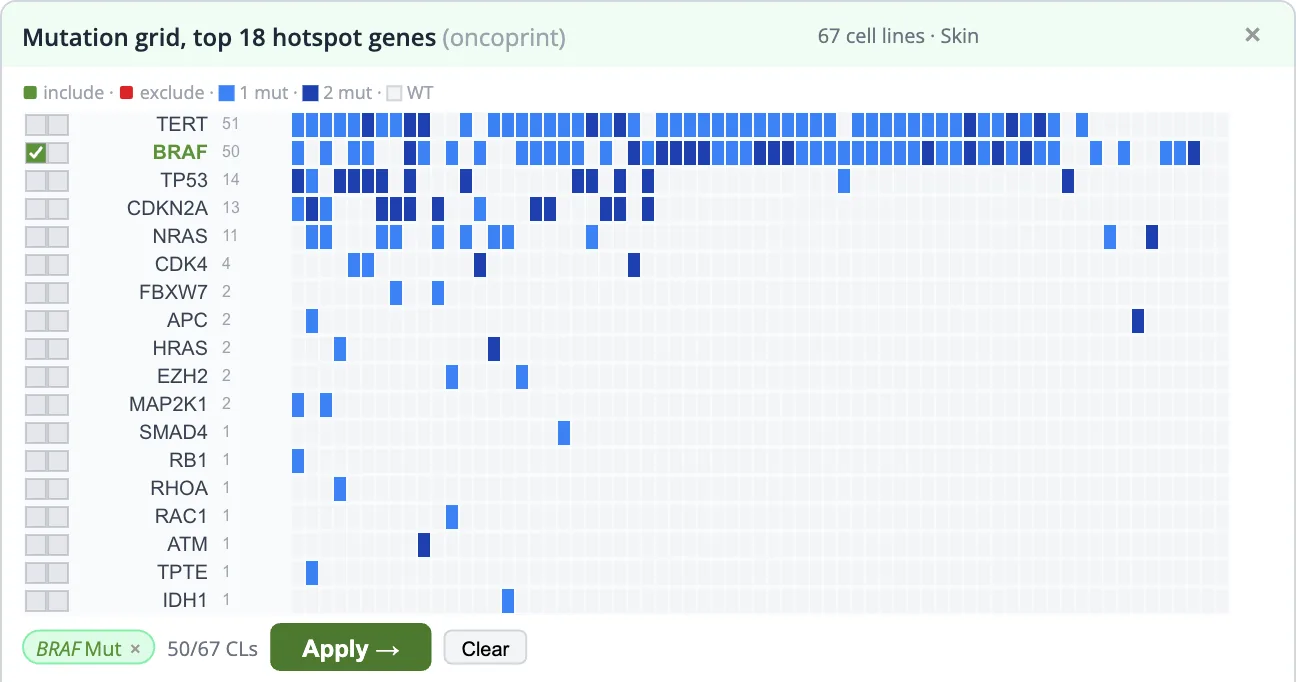
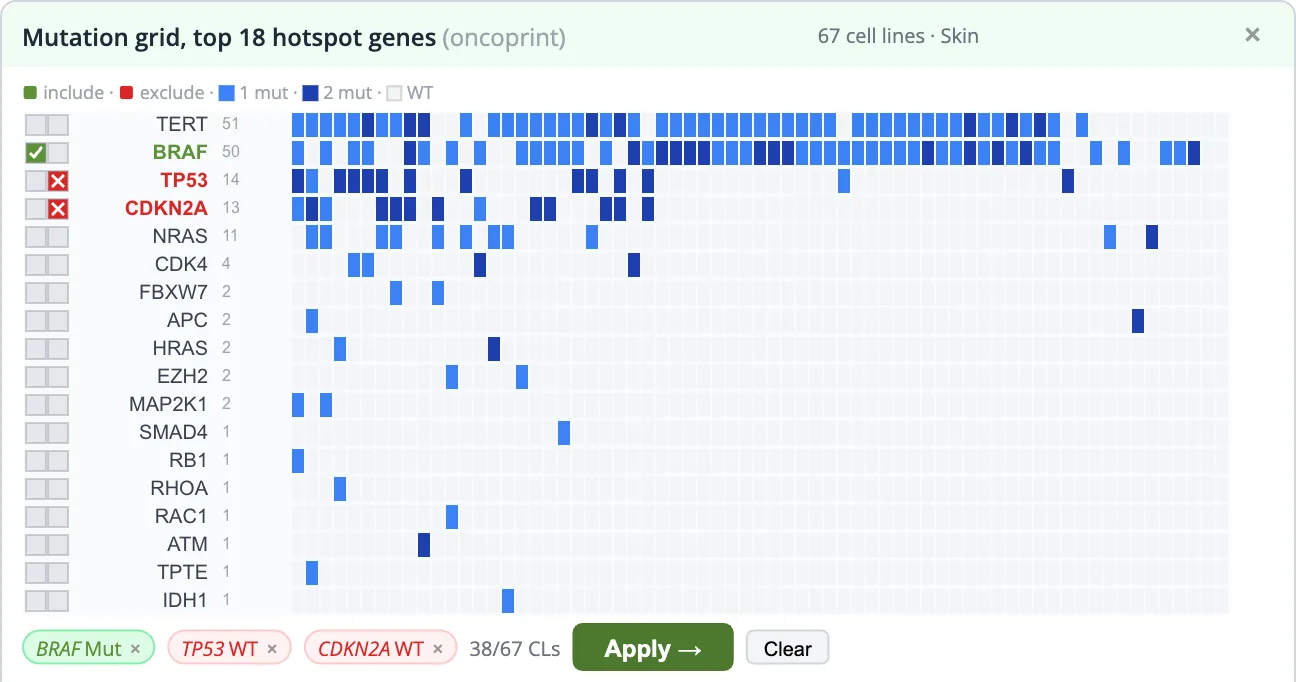
v.91.42: tour: mutation grid example with include and exclude picks (BRAF kept, TP53 and CDKN2A left out), button reproduces them
Claude-Session: https://claude.ai/code/session_01GrRsah6zkLaafT5s7nhzFW

Changed region(s): [[0.1235, 0.893, 0.6481, 0.9853], [0.0926, 0.2463, 0.1543, 0.3387], [0.0309, 0.2463, 0.0617, 0.3387]]

diff --git a/tour.js b/tour.js
@@ -221,7 +221,23 @@
         myc: (a) => a.openGeneBrowser('MYC'),
         tsc1: (a) => a.openGeneBrowser('TSC1'),
         clb: (a) => openMelanoma(a, 'BRAF'),
-        oncoprint: async (a) => { await openMelanoma(a, ''); a.showOncoprint('clb', 'hotspot'); },
+        oncoprint: async (a) => {
+            await openMelanoma(a, '');
+            a.showOncoprint('clb', 'hotspot');
+            await wait(700);
+            // The picks shown in the figure, made through the grid's own click
+            // handler: BRAF mutated kept, TP53 and CDKN2A mutated left out.
+            const d = a._oncoprintData;
+            const cv = [...document.querySelectorAll('#oncoprintPopup canvas')].find(c => c.getBoundingClientRect().width > 0 && c.getBoundingClientRect().width < 260);
+            if (!d || !cv) return;
+            const r = cv.getBoundingClientRect();
+            for (const [gene, state] of [['BRAF', 'mut'], ['TP53', 'wt'], ['CDKN2A', 'wt']]) {
+                const row = d.topGenes.findIndex(g => g.gene === gene);
+                if (row < 0) continue;
+                const x = 2 + (state === 'mut' ? d.boxW / 2 : d.boxW + d.boxGap + d.boxW / 2);
+                cv.dispatchEvent(new MouseEvent('click', { bubbles: true, clientX: r.left + x, clientY: r.top + row * d.cellH + d.cellH / 2 }));
+            }
+        },
         wiki: (a) => a.openCellLineWiki(D.lineId('A375') || 'ACH-000219'),
         stats: () => { const m = document.getElementById('infographicModal'); if (m) m.style.display = 'flex'; },
     };
@@ -355,10 +371,10 @@
                 <h3>Select cell lines by their mutations</h3>
                 ${checks([
                     'The mutation grid (oncoprint) shows the most often mutated genes across the cell lines on screen, one column per cell line.',
-                    'Tick a gene to keep the cell lines that carry its mutation, or to leave them out, then apply. Copy number and fusions have their own grids.',
+                    'Tick green to keep the cell lines that carry a mutation and red to leave them out, combine several genes, then apply. Copy number and fusions have their own grids.',
                 ])}
             </div>
-            ${shot('oncoprint_mel', 'The mutation grid for the 67 melanoma cell lines with BRAF ticked', 'oncoprint', { cap: `The 67 melanoma cell lines, with ${gi('BRAF')} ticked: 50 of them carry a ${gi('BRAF')} hotspot mutation.`, btn: 'Open the mutation grid for melanoma' })}
+            ${shot('oncoprint_mel', 'The mutation grid for the 67 melanoma cell lines, BRAF mutated kept, TP53 and CDKN2A mutated left out', 'oncoprint', { cap: `The 67 melanoma cell lines: ${gi('BRAF')}-mutated kept (green), ${gi('TP53')}- and ${gi('CDKN2A')}-mutated left out (red), which leaves 38.`, btn: 'Open the mutation grid with these picks' })}
         </div>
         <div class="tour-two tour-two-tight tour-two-pca">
             ${shot('volcano_mel', 'Volcano plot comparing the 50 BRAF-mutant melanoma cell lines with every other cell line', 'compare', { cap: `Compare: the 50 selected cell lines against the other 1,158. ${gi('BRAF')}, ${gi('SOX10')} and ${gi('MAPK1')} are their dependencies.`, btn: 'Compare these cell lines with the rest' })}

diff --git a/index.html b/index.html
@@ -3014,6 +3014,10 @@
                 <button onclick="this.closest('#changelogModal').style.display='none'" style="background:none;border:none;font-size:20px;cursor:pointer;">&times;</button>
             </div>
             <div style="font-size:12px; line-height:1.6; color:#374151;">
+                <p><strong>v.91.42 (2026-10-25)</strong></p>
+                <ul>
+                    <li>Tour of the app: the mutation grid example keeps BRAF-mutated melanoma cell lines and leaves out TP53- and CDKN2A-mutated ones (38 of 67); its button makes the same picks.</li>
+                </ul>
                 <p><strong>v.91.41 (2026-10-25)</strong></p>
                 <ul>
                     <li>Tour of the app: the Correlation plot section says the plot opens on its own from Other, then Correlation, to explore any two genes without building a network.</li>
@@ -8816,7 +8820,7 @@
             </span>
             <!-- Positioned off the row's right end (see #versionBadge CSS), so
                  it sits next to YouTube without moving the centred links. -->
-            <a href="#" id="versionBadge" onclick="event.preventDefault();document.getElementById('changelogModal').style.display='flex'" style="font-family:monospace; font-size:11px; background:#f3f4f6; padding:2px 8px; border-radius:10px; color:#6b7280; border:1px solid #d1d5db; font-weight:400;">v.91.41</a>
+            <a href="#" id="versionBadge" onclick="event.preventDefault();document.getElementById('changelogModal').style.display='flex'" style="font-family:monospace; font-size:11px; background:#f3f4f6; padding:2px 8px; border-radius:10px; color:#6b7280; border:1px solid #d1d5db; font-weight:400;">v.91.42</a>
         </span>
     </div>
 
@@ -12195,6 +12199,6 @@
     </div>
 
     <script src="app.js?v=v91_40"></script>
-    <script src="tour.js?v=v91_41"></script>
+    <script src="tour.js?v=v91_42"></script>
 </body>
 </html>
